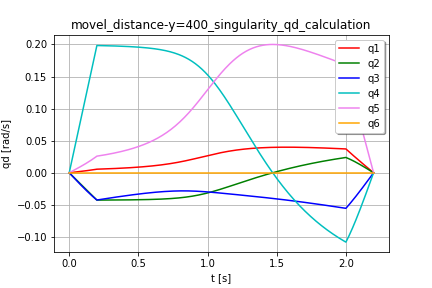
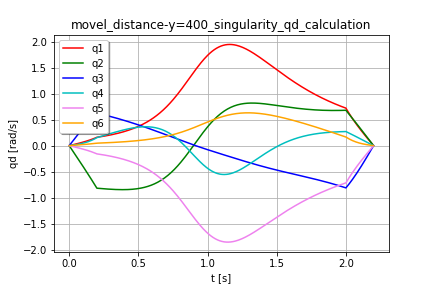
qd traj fixed

Changed region(s): [[0.0, 0.125, 0.9028, 0.875]]

diff --git a/trajektorienplanung_test_pose.py b/trajektorienplanung_test_pose.py
@@ -14,7 +14,7 @@ import numpy as np
 Save plots to
 """
 save_to ='C:/Users/mkris/Documents/Master/3. Semester/Robotik/code/trajektorien_plots/'
-name = 'xx'
+name = 'movel_distance-y=400_singularity'
 
 # non singularity
 #pStart = np.array([-0.250,-0.200, 0.300,2.2214,2.2214,0])
@@ -34,12 +34,12 @@ name = 'xx'
 
 """ neue Werte Fixing"""
 """non singu"""
-pStart = np.array([0.300,-0.200,0.350,2,-2,2])
-pTarget = np.array([0.300,0.200,0.350,2,-2,2])
+#pStart = np.array([0.300,-0.200,0.350,2,-2,2])
+#pTarget = np.array([0.300,0.200,0.350,2,-2,2])
 
 """singularity"""
-#pStart = np.array([0.200,-0.200,0.350,2,-2,2])
-#pTarget = np.array([0.200,0.200,0.350,2,-2,2])
+pStart = np.array([0.200,-0.200,0.350,2,-2,2])
+pTarget = np.array([0.200,0.200,0.350,2,-2,2])
 
 # florens
 #pStart = np.array([300,-200,400,2.4186,-2.4185,2.4185])
@@ -57,7 +57,7 @@ dh_para = np.array([(1.570796327, 0, 0.1519), (0, -0.24365, 0), (0, -0.21325, 0)
 amax = 1.0
 vmax = 0.2
 delta_t = 1/125
-sol = 0
+sol = 1
 
 #for sol in range(8):
 #    print("Solution: ", sol)
@@ -72,7 +72,7 @@ print("Solution: ", sol)
 """ get q """
 q_t = tp.ik_pose(pose_t, dh_para, sol)
 v_t = jc.vt(q_t, pose_vt, dh_para)
-v_tcp = jc.v_tcp(q_t, pose_vt, dh_para)
+#v_tcp = jc.v_tcp(q_t, pose_vt, dh_para)
 print(v_tcp)
 
 #print("Solution: ", sol)
@@ -132,23 +132,23 @@ for i in range(6):
     plt.figure(2)
     #    plt.plot(t, q_t)
     if (i == 0):
-        plt.plot(t, v_tcp[:,i], color = 'r', label = 'q1')
+        plt.plot(t, v_t[:,i], color = 'r', label = 'q1')
     elif (i == 1):
-        plt.plot(t, v_tcp[:,i], color = 'g', label = 'q2')
+        plt.plot(t, v_t[:,i], color = 'g', label = 'q2')
     elif (i == 2):
-        plt.plot(t, v_tcp[:,i], color = 'b', label = 'q3')
+        plt.plot(t, v_t[:,i], color = 'b', label = 'q3')
     elif (i == 3):
-        plt.plot(t, v_tcp[:,i], color = 'c', label = 'q4')
+        plt.plot(t, v_t[:,i], color = 'c', label = 'q4')
     elif (i == 4):
-        plt.plot(t, v_tcp[:,i], color = 'violet', label = 'q5')
+        plt.plot(t, v_t[:,i], color = 'violet', label = 'q5')
     elif ( i == 5):
-        plt.plot(t, v_tcp[:,i], color = 'orange', label = 'q6')
+        plt.plot(t, v_t[:,i], color = 'orange', label = 'q6')
     plt.title(name + '_qd_calculation')
     plt.xlabel('t [s]')
     plt.ylabel('qd [rad/s]')
     plt.grid(True)
     leg = plt.legend(loc='best',  shadow=True, fancybox=True)
-#plt.savefig(save_to + name + '_qd_calculation.png')
+plt.savefig(save_to + name + '_qd_calculation.png')
 plt.show()
 
 #

diff --git a/jacobimatrix.py b/jacobimatrix.py
@@ -44,12 +44,11 @@ def v_tcp(q_t, v_t, dh_para):
 """
 Gelenkwinkelgeschwindigkeit --> movej
 """
-def vt(qT, pose_vt, dh_para):
-    print(qT)
-    v_t = np.zeros(qT.shape)
+def vt(q_t, pose_vt, dh_para):
+    v_t = np.zeros(q_t.shape)
     
-    for t in range(qT.shape[0]):
-        J_t = jacobi_ur(dh_para, qT[t])
+    for t in range(q_t.shape[0]):
+        J_t = jacobi_ur(dh_para, q_t[t])
         try: 
             J_t_inv = np.linalg.inv(J_t)
             v_t[t] = np.dot(J_t_inv, pose_vt[t])

diff --git a/libary_1.py b/libary_1.py
@@ -158,6 +158,7 @@ def dh(alpha, a, d, theta):
     sa = np.sin(alpha)
 		
     T = np.array([(ct, -st*ca, st*sa, a*ct),(st, ct*ca, -ct*sa, a*st),(0, sa, ca, d),(0, 0, 0, 1)])
+
     return T
 
 def dhm(alpha, a, d, theta):
